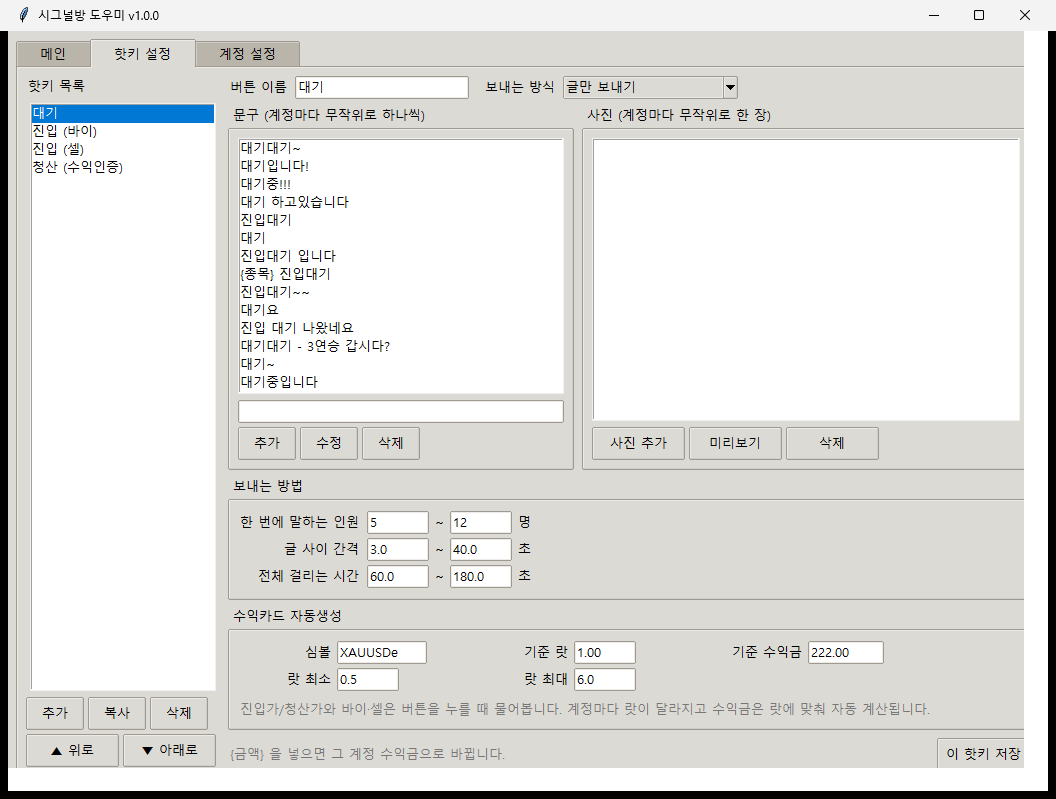
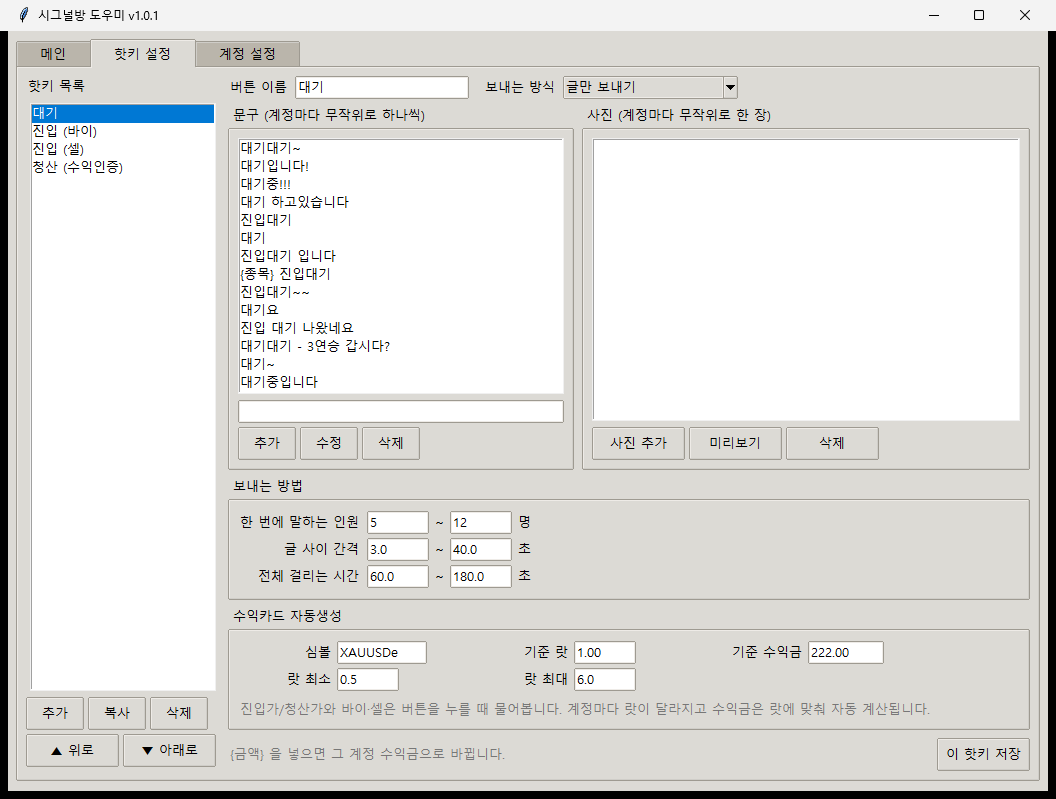
docs: onedir/ZIP packaging record, 1.0.1 evidence

Changed region(s): [[0.0, 0.03, 1.0, 0.9912]]

diff --git a/NOTES.md b/NOTES.md
@@ -6,8 +6,8 @@ people typing. Korean GUI, no console, everything configurable in the window.
 
 - Customer: kmong partnerId **4881110** (neoworks customer id `f05d4eb9-1959-4edb-8b43-bacbc17cf77b`)
 - Build repo (PUBLIC, no customer data): https://github.com/bf-dev/signal-room-bot
-- Download: https://works.insu.ng/works/public/4881110/signal-room-bot-1.0.0.exe
-- Update manifest: `.../4881110/version-signal-room-bot.json` (exe swap, house updater)
+- Download: https://works.insu.ng/works/public/4881110/signal-room-bot-1.0.1.zip
+- Update manifest: `.../4881110/version-signal-room-bot.json` -> `zipUrl` (folder swap)
 - Artifacts source: `signal-room-bot-*` (startup / burst / error / selftest)
 
 ## Build / run
@@ -21,7 +21,20 @@ python app/reporter.py             # Artifacts wire proof, prints matched:true
 ```
 
 Windows build is **GitHub Actions** (`.github/workflows/build.yml`, windows-latest,
-PyInstaller `--onefile --noconsole`). It also runs `--cardtest`, `--selftest` and captures
+PyInstaller `--onedir --noconsole`, zipped with the Korean guide inside).
+
+**ONEDIR, NEVER ONEFILE.** A 29MB onefile deliverable on this account unpacked ~1300 files
+into `%TEMP%` on every launch, took **3m44s** to start on a real customer PC and was then
+blocked by Windows (2026-08-25). This build is 1222 files / 25.3MB zipped and starts in
+**0.54-0.58s** on the runner from the extracted ZIP. The updater is a **folder swap** to
+match: the manifest carries `zipUrl`, `updater.py` downloads the ZIP, verifies size, and a
+PowerShell `-EncodedCommand` helper waits for the PID, `Copy-Item -Recurse` merges the new
+folder in, and relaunches by the exe name found in the unpacked folder.
+
+Two CI gotchas that cost a run: Windows PowerShell 5.1 reads a YAML-embedded script as ANSI
+and mangles the `_읽어주세요.txt` literal (use `shell: pwsh` and match `_*.txt` by pattern),
+and `Compress-Archive` stores that name without the UTF-8 flag, so Linux `unzip` shows
+mojibake while Windows shows it correctly. It also runs `--cardtest`, `--selftest` and captures
 all three screens with `ci/gui_screenshot.ps1` (PrintWindow on the real desktop session).
 `gh run download <id>` gives `dist/signal-room-bot.exe` + `screenshots/*.png`.
 `winbuild` also works but its screenshot step hung on 2026-09-10 ("Task may not run
